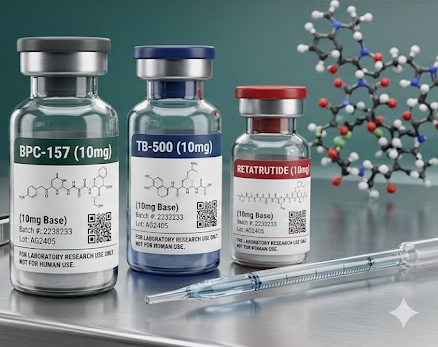
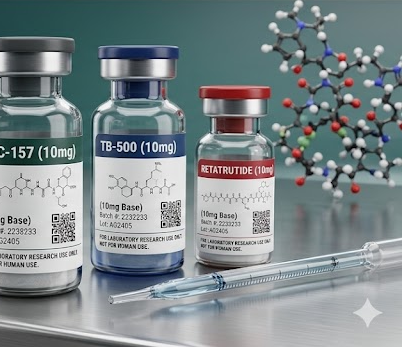
Tighten hero scene overlap with refined crop and mask.
Re-crop hero-right, reduce right-scene width, soften/narrow the left fade mask, and constrain the text column to prevent headline collision.

diff --git a/app/(marketing)/page.tsx b/app/(marketing)/page.tsx
@@ -43,7 +43,7 @@ export default async function HomePage() {
 
         <div className="relative mx-auto max-w-[1440px] px-8 lg:px-12">
           <div className="grid min-h-[760px] items-center lg:grid-cols-[0.95fr_1.05fr]">
-            <div className="relative z-20 max-w-[760px] pb-20 pt-24">
+            <div className="relative z-30 max-w-[620px] pb-20 pt-24">
               <Badge variant="purity" className="mb-6 inline-flex rounded-full border border-[#19d3bd]/40 bg-[#092420]/70 px-5 py-2 text-sm text-[#22d7c1]">
               Laboratory research materials · Independent COAs
               </Badge>
@@ -86,9 +86,9 @@ export default async function HomePage() {
               <img
                 src="/hero-right.png"
                 alt="Peptide research products"
-                className="pointer-events-none absolute bottom-0 right-[-60px] w-[980px] max-w-none select-none"
+                className="pointer-events-none absolute bottom-0 right-[-20px] z-10 w-[760px] max-w-none select-none"
               />
-              <div className="absolute inset-y-0 left-[-20px] w-[260px] bg-gradient-to-r from-[#050908] via-[#050908]/92 to-transparent" />
+              <div className="pointer-events-none absolute inset-y-0 left-0 z-20 w-[120px] bg-gradient-to-r from-[#050908] via-[#050908]/70 to-transparent" />
             </div>
           </div>
         </div>
